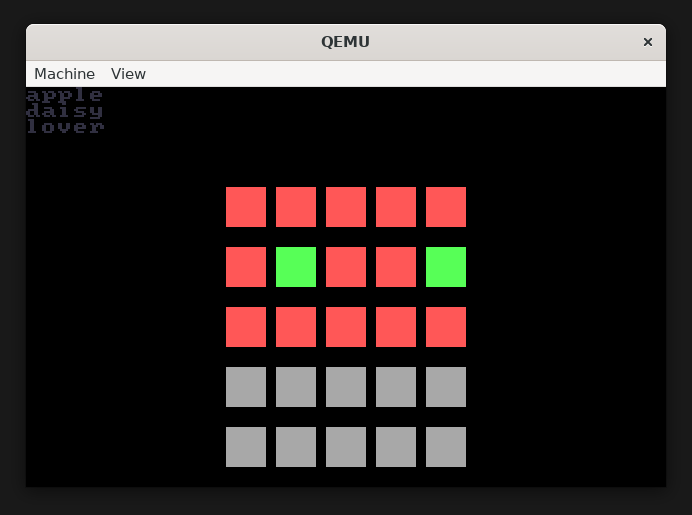
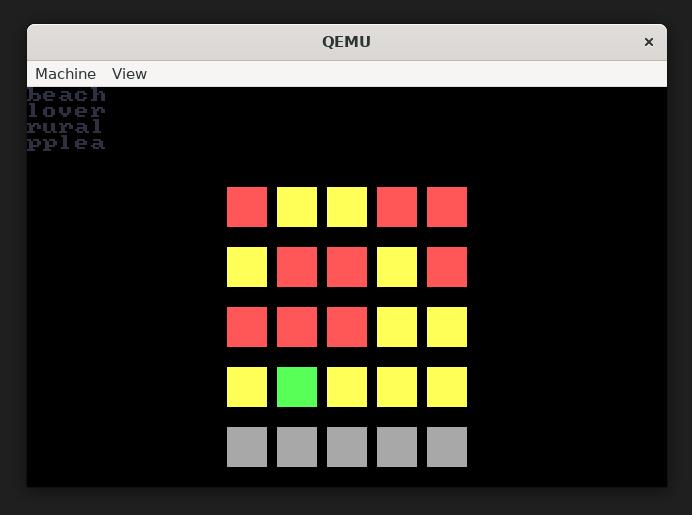
update readme

diff --git a/README.md b/README.md
@@ -15,7 +15,7 @@ Este é um jogo de Wordle feito em assembly x86. O código foi refatorado tomand
 - [ ] **Quadrados**
   - [x] Desenhar quadrado na tela na cor desejada (verde)
   - [x] Desenhar quadrado na tela na cor desejada (vermelho)
-  - [ ] Desenhar quadrado na tela na cor desejada (amarelo) ([issue #5](https://github.com/nathaliafab/WordleX86/issues/5))
+  - [x] Desenhar quadrado na tela na cor desejada (amarelo)
   - [x] Desenhar quadrado específico no local correto
   - [ ] Colocar as letras nos respectivos quadrados ([issue #7](https://github.com/nathaliafab/WordleX86/issues/7))
 - [ ] **Palavras**
